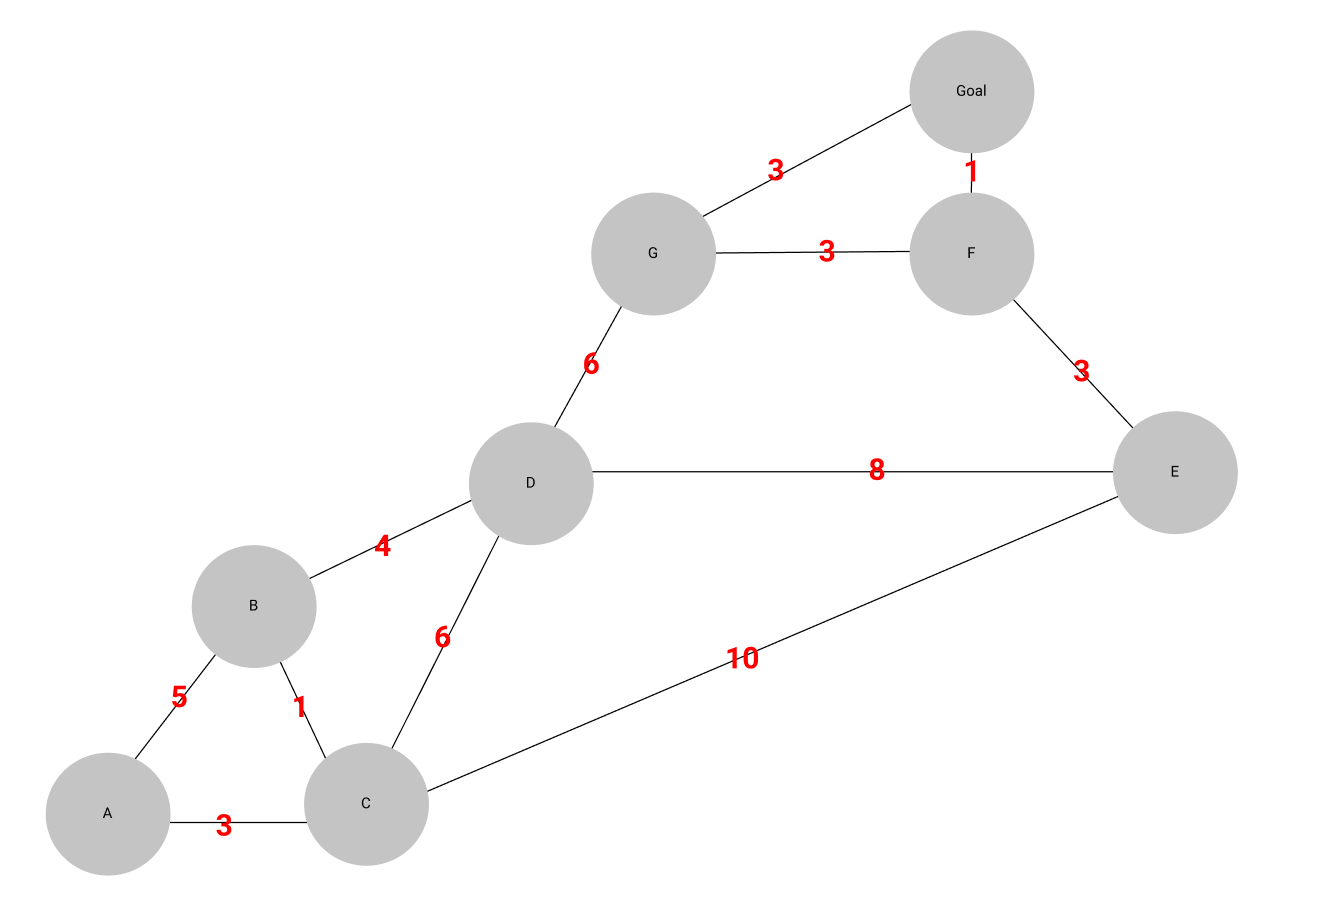
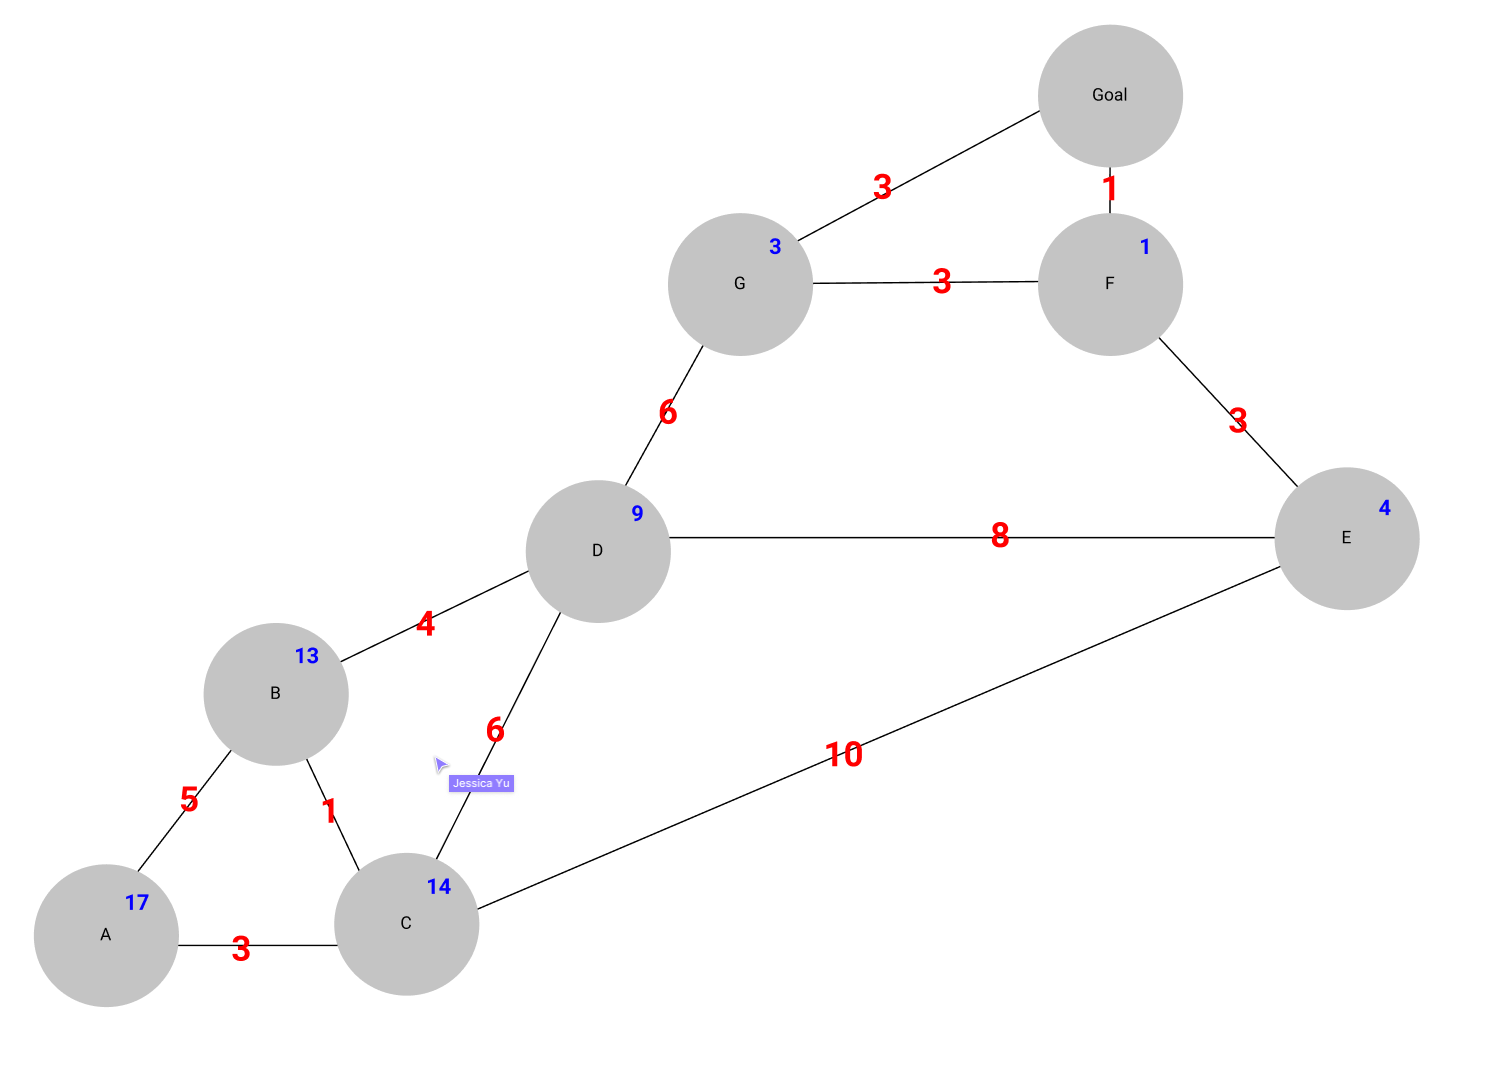
Added Heuristic to graph

diff --git a/A*/unit_test.py b/A*/unit_test.py
@@ -23,7 +23,8 @@ def test_astar_large():
         'A': (16, [('B', 5), ('C', 5)]),
         'B': (17, [('A', 5), ('C', 4), ('D', 3)]),
         'C': (13, [('A', 5), ('B', 4), ('D', 7), ('E', 7), ('H', 8)]),
-        'D': (16, [('B', 3), ('C', 7), ('H', 11), ('M', 14), ('L', 13), ('K', 16)]),
+        'D': (16, [('B', 3), ('C', 7), ('H', 11), ('M', 14), ('L', 13),
+                   ('K', 16)]),
         'E': (16, [('C', 7), ('F', 4), ('H', 5)]),
         'F': (20, [('E', 4), ('G', 9)]),
         'G': (17, [('F', 9), ('N', 12)]),

diff --git a/A*/README.md b/A*/README.md
@@ -1,0 +1,1 @@
+    
